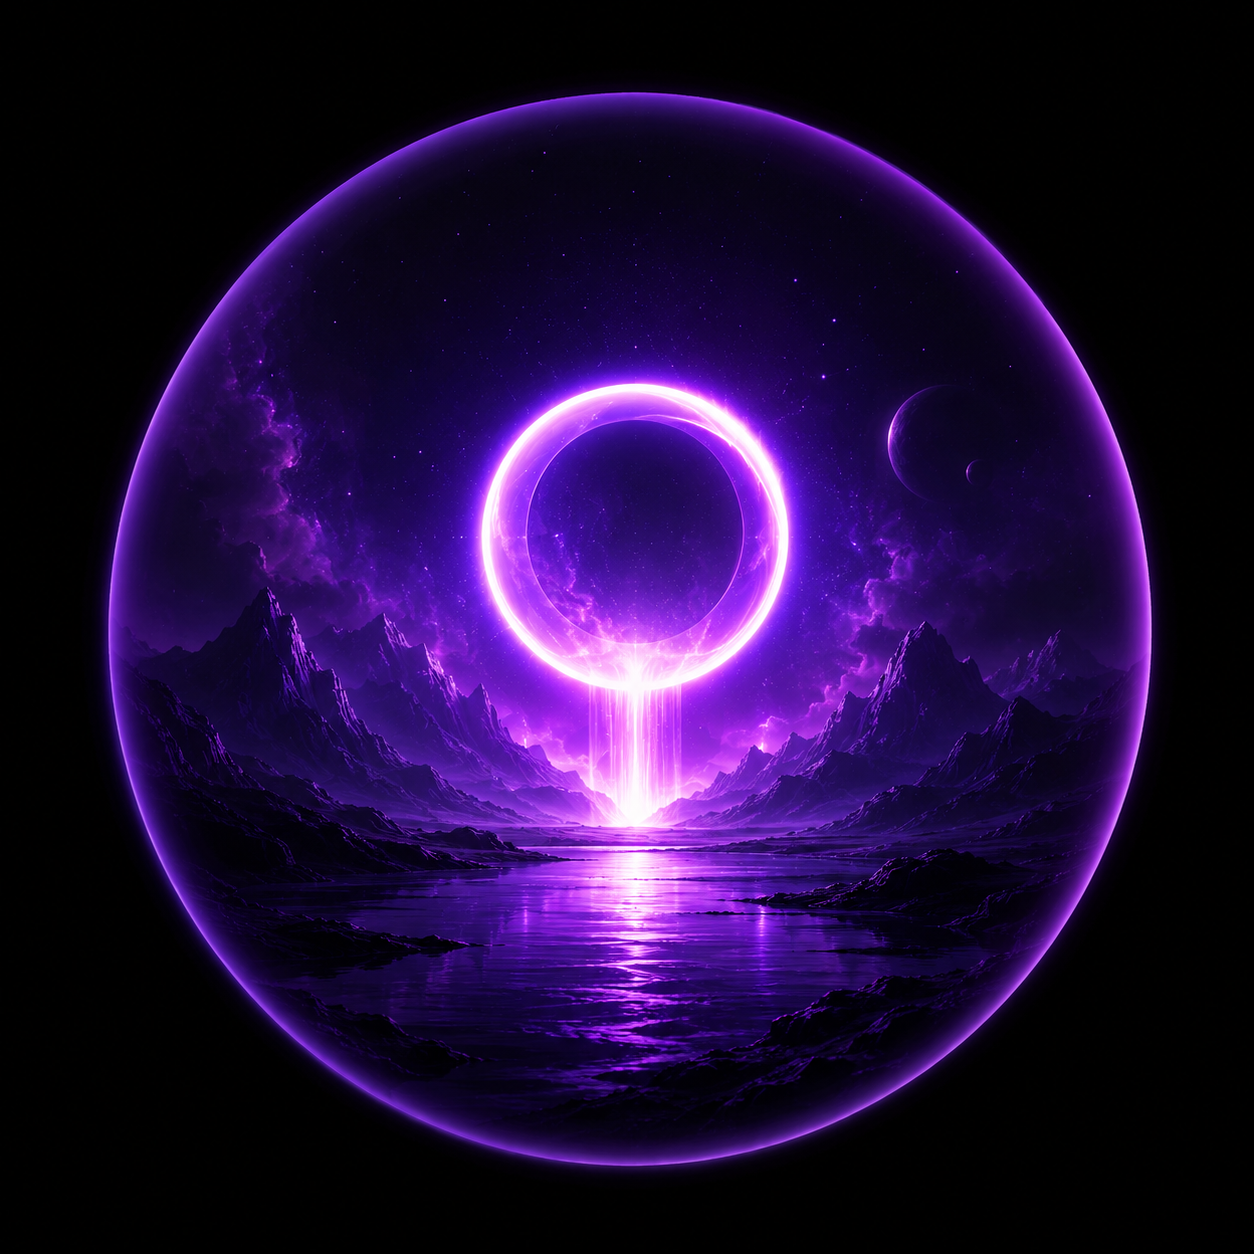
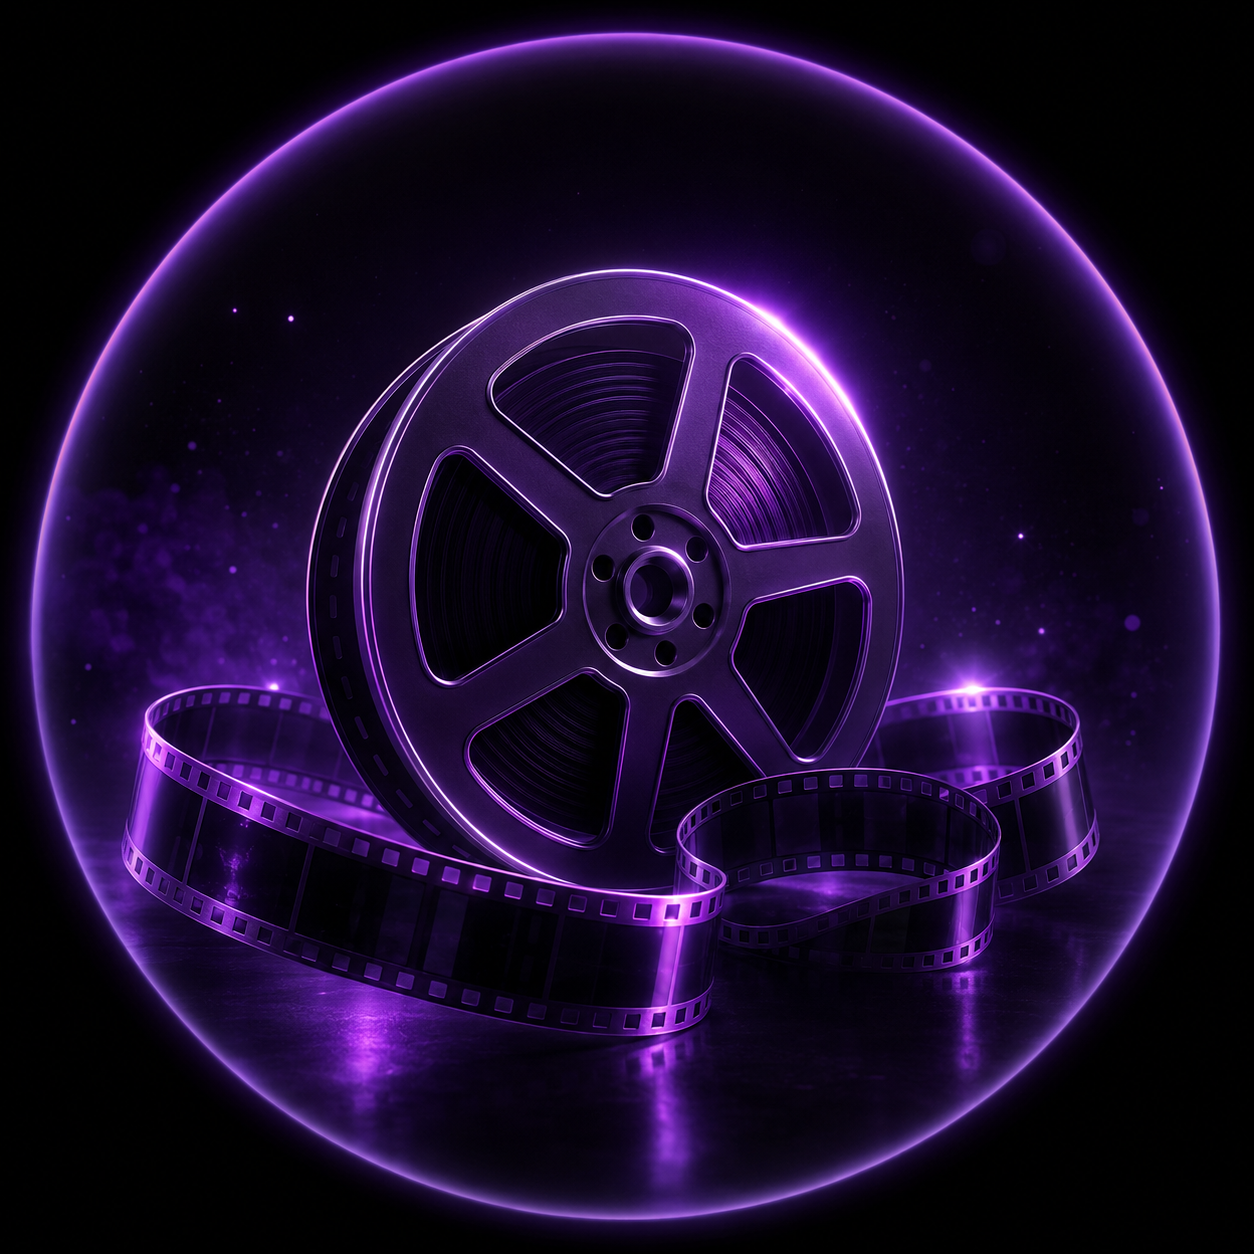
Animate home title spin, rebalance Home spacing, and update hero background
Add a quick spin-and-settle animation to the Home title, tighten and
even out the vertical spacing between Quick Match, Trending now, and
Recommended for you, replace the hero background artwork behind the
title, and remove the white autofill background on the login inputs.

diff --git a/components/HOMEFRAMEO.jsx b/components/HOMEFRAMEO.jsx
@@ -122,7 +122,7 @@ export function HOMEFRAMEO(_p = {}) {
           height: 267,
           opacity: 0.22,
         }} />
-        <span style={{
+        <span className="home-title-spin" style={{
           position: "absolute",
           left: 31,
           top: 153,
@@ -136,7 +136,6 @@ export function HOMEFRAMEO(_p = {}) {
           lineHeight: "40px",
           letterSpacing: "0.050em",
           color: "rgb(255,255,255)",
-          display: "inline-block",
         }}><span style={{ fontSize: 40 }}>{"What"}</span>{" should we watch "}<span style={{ fontWeight: 700, fontSize: 29 }}>{"tonight"}</span><span style={{ fontWeight: 700, fontSize: 27 }}>{"?"}</span></span>
         <span style={{
           position: "absolute",
@@ -167,7 +166,7 @@ export function HOMEFRAMEO(_p = {}) {
         <span style={{
           position: "absolute",
           left: 27,
-          top: 485,
+          top: 444,
           width: 161,
           height: 24,
           fontFamily: "Manrope, -apple-system, BlinkMacSystemFont, \"Segoe UI\", Roboto, \"Helvetica Neue\", Arial, sans-serif",
@@ -181,7 +180,7 @@ export function HOMEFRAMEO(_p = {}) {
         <span style={{
           position: "absolute",
           left: 24,
-          top: 867,
+          top: 819,
           width: 243,
           height: 24,
           fontFamily: "Manrope, -apple-system, BlinkMacSystemFont, \"Segoe UI\", Roboto, \"Helvetica Neue\", Arial, sans-serif",
@@ -195,7 +194,7 @@ export function HOMEFRAMEO(_p = {}) {
         <span style={{
           position: "absolute",
           left: 24,
-          top: 659,
+          top: 611,
           width: 151,
           height: 24,
           fontFamily: "Manrope, -apple-system, BlinkMacSystemFont, \"Segoe UI\", Roboto, \"Helvetica Neue\", Arial, sans-serif",
@@ -209,7 +208,7 @@ export function HOMEFRAMEO(_p = {}) {
         <div style={{
           position: "absolute",
           left: 0,
-          top: 524,
+          top: 488,
           width: 402,
           display: "flex",
           flexDirection: "row",
@@ -251,7 +250,7 @@ export function HOMEFRAMEO(_p = {}) {
         <span style={{
           position: "absolute",
           left: 305,
-          top: 867,
+          top: 819,
           width: 79,
           height: 24,
           fontFamily: "Manrope, -apple-system, BlinkMacSystemFont, \"Segoe UI\", Roboto, \"Helvetica Neue\", Arial, sans-serif",
@@ -266,7 +265,7 @@ export function HOMEFRAMEO(_p = {}) {
         <span style={{
           position: "absolute",
           left: 306,
-          top: 659,
+          top: 611,
           width: 76,
           height: 24,
           fontFamily: "Manrope, -apple-system, BlinkMacSystemFont, \"Segoe UI\", Roboto, \"Helvetica Neue\", Arial, sans-serif",
@@ -278,7 +277,7 @@ export function HOMEFRAMEO(_p = {}) {
           color: "rgb(168,85,247)",
           textDecoration: "underline",
         }}>See all</span>
-        <ScrollTrack progress={recommendedProgress} scrollRef={recommendedScrollRef} style={{ left: 27, top: 899, width: 375 }} />
+        <ScrollTrack progress={recommendedProgress} scrollRef={recommendedScrollRef} style={{ left: 27, top: 851, width: 375 }} />
         <div
           ref={recommendedScrollRef}
           className="no-scrollbar"
@@ -287,7 +286,7 @@ export function HOMEFRAMEO(_p = {}) {
           style={{
           position: "absolute",
           left: 27,
-          top: 911,
+          top: 863,
           width: 375,
           height: 125,
           overflowX: "auto",
@@ -367,7 +366,7 @@ export function HOMEFRAMEO(_p = {}) {
             height: 130,
           }} />
         </div>
-        <ScrollTrack progress={trendingProgress} scrollRef={trendingScrollRef} style={{ left: 24, top: 691, width: 378 }} />
+        <ScrollTrack progress={trendingProgress} scrollRef={trendingScrollRef} style={{ left: 24, top: 643, width: 378 }} />
         <div
           ref={trendingScrollRef}
           className="no-scrollbar"
@@ -376,7 +375,7 @@ export function HOMEFRAMEO(_p = {}) {
           style={{
           position: "absolute",
           left: 24,
-          top: 703,
+          top: 655,
           width: 378,
           height: 125,
           overflowX: "auto",
@@ -470,7 +469,7 @@ export function HOMEFRAMEO(_p = {}) {
             height: 130,
           }} />
         </div>
-        <div style={{ position: "absolute", left: 0, top: 1036, width: 1, height: 110 }} />
+        <div style={{ position: "absolute", left: 0, top: 988, width: 1, height: 110 }} />
       </div>
       <TABBAR style={{
           position: "absolute",

diff --git a/styles.css b/styles.css
@@ -7,6 +7,16 @@
   box-sizing: border-box;
 }
 
+input:-webkit-autofill,
+input:-webkit-autofill:hover,
+input:-webkit-autofill:focus {
+  -webkit-box-shadow: 0 0 0px 1000px transparent inset;
+  box-shadow: 0 0 0px 1000px transparent inset;
+  -webkit-text-fill-color: rgb(248,247,255);
+  caret-color: rgb(248,247,255);
+  transition: background-color 9999s ease-in-out 0s;
+}
+
 html, body {
   margin: 0;
   height: 100%;
@@ -170,4 +180,16 @@ html, body {
   mix-blend-mode: screen;
   pointer-events: none;
   animation: seaShimmer 4s ease-in-out infinite;
+}
+
+@keyframes titleSpin {
+  0% { transform: rotate(0deg); }
+  18% { transform: rotate(360deg); }
+  100% { transform: rotate(360deg); }
+}
+
+.home-title-spin {
+  display: inline-block;
+  transform-origin: 50% 50%;
+  animation: titleSpin 3.5s cubic-bezier(0.34, 1.56, 0.64, 1) infinite;
 }